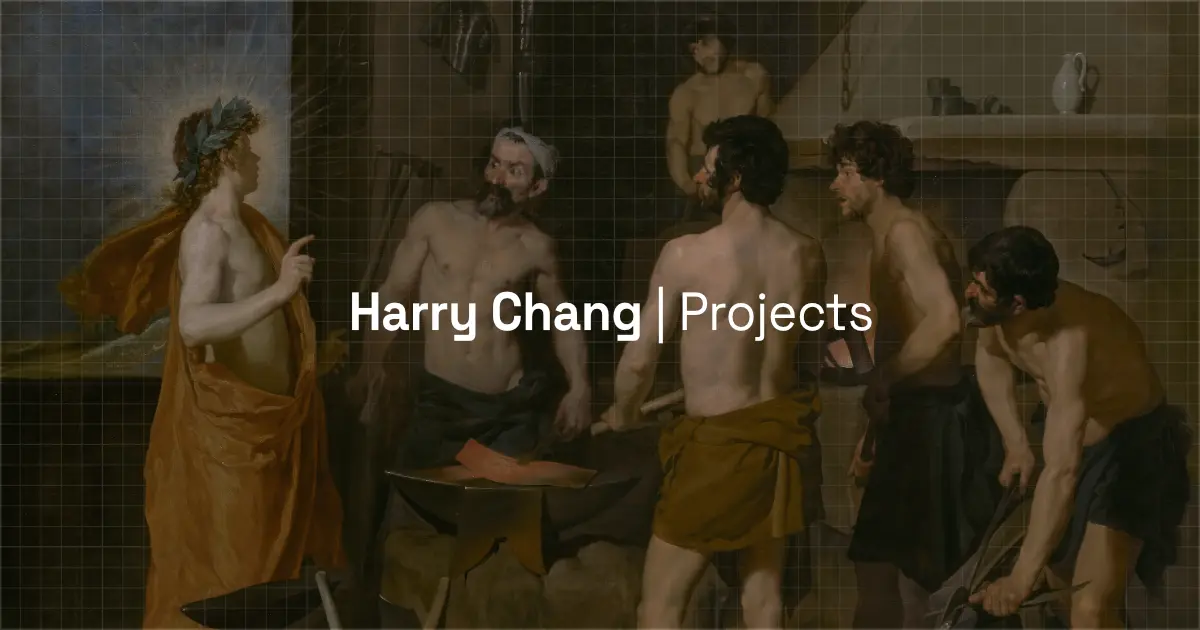
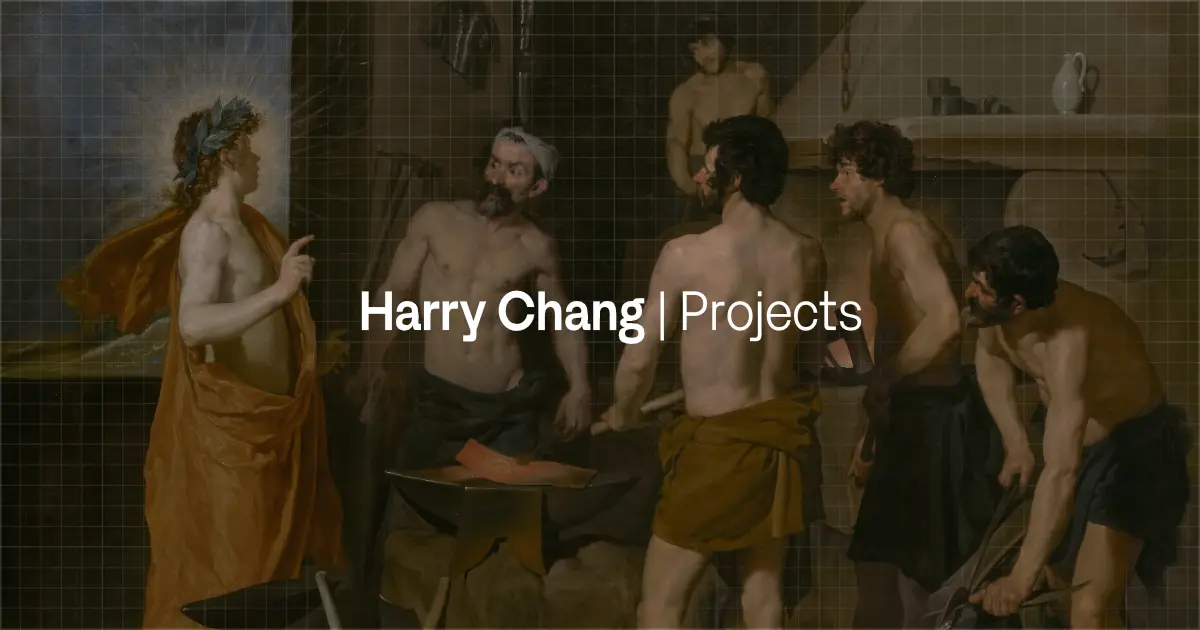
feat: replace Space Grotesk with Artific and update assets
- Integrate `fetch-fonts.mjs` script for secure build-time font download
- Replace Space Grotesk with Artific local font in layout and typography lib
- Remap CSS variables for seamless font transition
- Update OG images and header to reflect new typeface
- Fix socket hang issue in fetch script and add to prebuild/postinstall

Changed region(s): [[0.2775, 0.4524, 0.74, 0.5429]]

diff --git a/apps/harrychang-me/app/layout.tsx b/apps/harrychang-me/app/layout.tsx
@@ -2,6 +2,7 @@ import './globals.css'
 import type React from 'react'
 import type { Metadata, Viewport } from 'next' // Added Viewport type
 import { Space_Grotesk, IBM_Plex_Sans } from 'next/font/google'
+import localFont from 'next/font/local'
 import { siteConfig } from '@/config/site'
 
 const spaceGrotesk = Space_Grotesk({
@@ -26,6 +27,21 @@ export const viewport: Viewport = {
   width: 'device-width',
   initialScale: 1,
 }
+const artific = localFont({
+  src: [
+    { path: '../public/fonts/Artific/Artific-Thin.woff2', weight: '100', style: 'normal' },
+    { path: '../public/fonts/Artific/Artific-SuperLight.woff2', weight: '200', style: 'normal' },
+    { path: '../public/fonts/Artific/Artific-Light.woff2', weight: '300', style: 'normal' },
+    { path: '../public/fonts/Artific/Artific-Regular.woff2', weight: '400', style: 'normal' },
+    { path: '../public/fonts/Artific/Artific-Medium.woff2', weight: '500', style: 'normal' },
+    { path: '../public/fonts/Artific/Artific-SemiBold.woff2', weight: '600', style: 'normal' },
+    { path: '../public/fonts/Artific/Artific-Bold.woff2', weight: '700', style: 'normal' },
+    { path: '../public/fonts/Artific/Artific-SuperBold.woff2', weight: '800', style: 'normal' },
+    { path: '../public/fonts/Artific/Artific-Black.woff2', weight: '900', style: 'normal' },
+  ],
+  variable: '--font-artific', // New variable name
+  display: 'swap',
+})
 
 export const metadata: Metadata = {
   metadataBase: new URL(siteConfig.url),
@@ -119,10 +135,14 @@ export default function RootLayout({
       lang="en" 
       // Added suppressHydrationWarning because you are using next-themes or dark mode class manipulation
       suppressHydrationWarning
-      className={`dark ${spaceGrotesk.variable} ${ibmPlexSans.variable}`}
+      className={`dark ${artific.variable} ${ibmPlexSans.variable}`}
       style={{
         '--font-body': 'var(--font-ibm-plex-sans)',
-        '--font-heading': 'var(--font-space-grotesk)',
+        // 🔄 REPLACEMENT MAGIC:
+        // Map both the generic heading var AND the old space-grotesk var to Artific.
+        // This ensures all existing UI components switch over instantly.
+        '--font-heading': 'var(--font-artific)',
+        '--font-space-grotesk': 'var(--font-artific)',
       } as React.CSSProperties}
     >
       <body className={`bg-background text-primary antialiased min-h-screen flex flex-col`}>

diff --git a/packages/lib/lib/typography.ts b/packages/lib/lib/typography.ts
@@ -9,7 +9,7 @@ export interface FontFamily {
   classification: string
   weights: number[]
   usage: 'primary' | 'display' | 'accent'
-  description: string
+  description?: string
   yearDesigned?: string
   designer?: string
 }
@@ -34,20 +34,19 @@ export const fontFamilies: FontFamily[] = [
     classification: 'Neo-Grotesque Sans-Serif',
     weights: [100, 200, 300, 400, 500, 600, 700],
     usage: 'primary',
-    description: 'A versatile sans-serif typeface designed by IBM to reflect their brand spirit, philosophy and principles. With excellent readability and a modern, approachable character, IBM Plex Sans serves as the primary body text throughout the portfolio.',
     yearDesigned: '2017',
     designer: 'Mike Abbink, Bold Monday',
   },
   {
-    name: 'Space Grotesk',
-    variable: '--font-space-grotesk',
-    classification: 'Display Grotesque',
-    weights: [300, 400, 500, 600, 700],
+    name: 'Artific',
+    variable: '--font-artific',
+    classification: 'Modern Geometric Sans-Serif',
+    weights: [100, 200, 300, 400, 500, 600, 700, 800, 900],
     usage: 'display',
-    description: 'A proportional variant of Space Mono designed for display purposes. With its geometric forms and distinctive character, Space Grotesk is used for all headings, navigation elements, and prominent UI text, creating a strong visual hierarchy and modern aesthetic.',
-    yearDesigned: '2018',
-    designer: 'Florian Karsten',
-  },
+    yearDesigned: '2024',
+    designer: 'Teguh Arief',
+  }
+
 ]
 
 export const fontSizes: FontSize[] = [

diff --git a/apps/harrychang-me/components/header.tsx b/apps/harrychang-me/components/header.tsx
@@ -350,14 +350,14 @@ export default function Header() {
             {isLab ? (
               <a
                 href={getHomeUrl()}
-                className="font-heading text-xl font-bold transition-colors hover:text-[hsl(var(--accent))] outline-none"
+                className="font-heading text-xl font-semibold transition-colors hover:text-[hsl(var(--accent))] outline-none"
               >
                 Harry Chang
               </a>
             ) : (
               <NavigationLink
                 href="/"
-                className="font-heading text-xl font-bold transition-colors hover:text-[hsl(var(--accent))] outline-none"
+                className="font-heading text-xl font-semibold transition-colors hover:text-[hsl(var(--accent))] outline-none"
                 onClick={(e) => { if(isHomePage) scrollToSection('about', e); }}
               >
                 Harry Chang

diff --git a/apps/harrychang-me/components/lab/lab-page-client.tsx b/apps/harrychang-me/components/lab/lab-page-client.tsx
@@ -81,7 +81,7 @@ export default function LabPageClient() {
                 initial={{ opacity: 0, y: 20 }}
                 animate={{ opacity: 1, y: 0 }}
                 transition={{ delay: 0.1, duration: 0.8, ease: "easeOut" }}
-                className="text-5xl md:text-6xl lg:text-6xl font-heading font-bold mb-6 leading-[1.1] tracking-tighter"
+                className="text-5xl md:text-6xl lg:text-6xl font-heading font-bold mb-6 leading-[1.1]"
                 
               >
                 <span className="text-white">

diff --git a/apps/harrychang-me/scripts/optimize-images.js b/apps/harrychang-me/scripts/optimize-images.js
@@ -461,8 +461,8 @@ async function processBlogImages() {
 // Run the optimization
 async function main() {
   console.log('Starting image optimization...');
-  // await processGalleryImages();
-  // await processProjectImages();
+  await processGalleryImages();
+  await processProjectImages();
   await processBlogImages();
   console.log('Image optimization complete!');
 }
